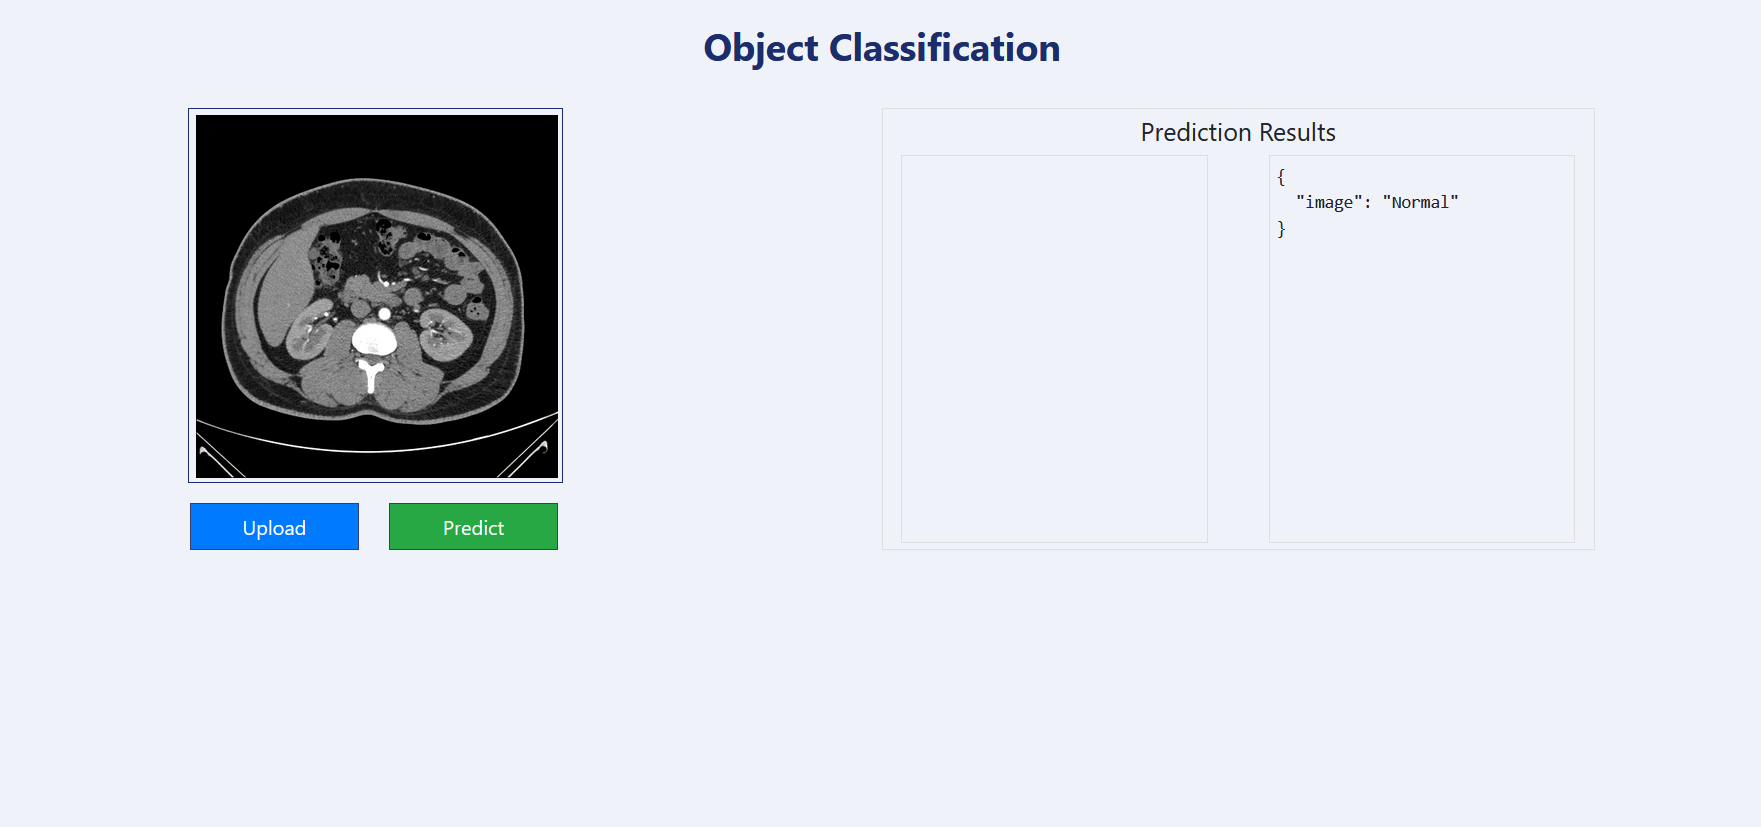
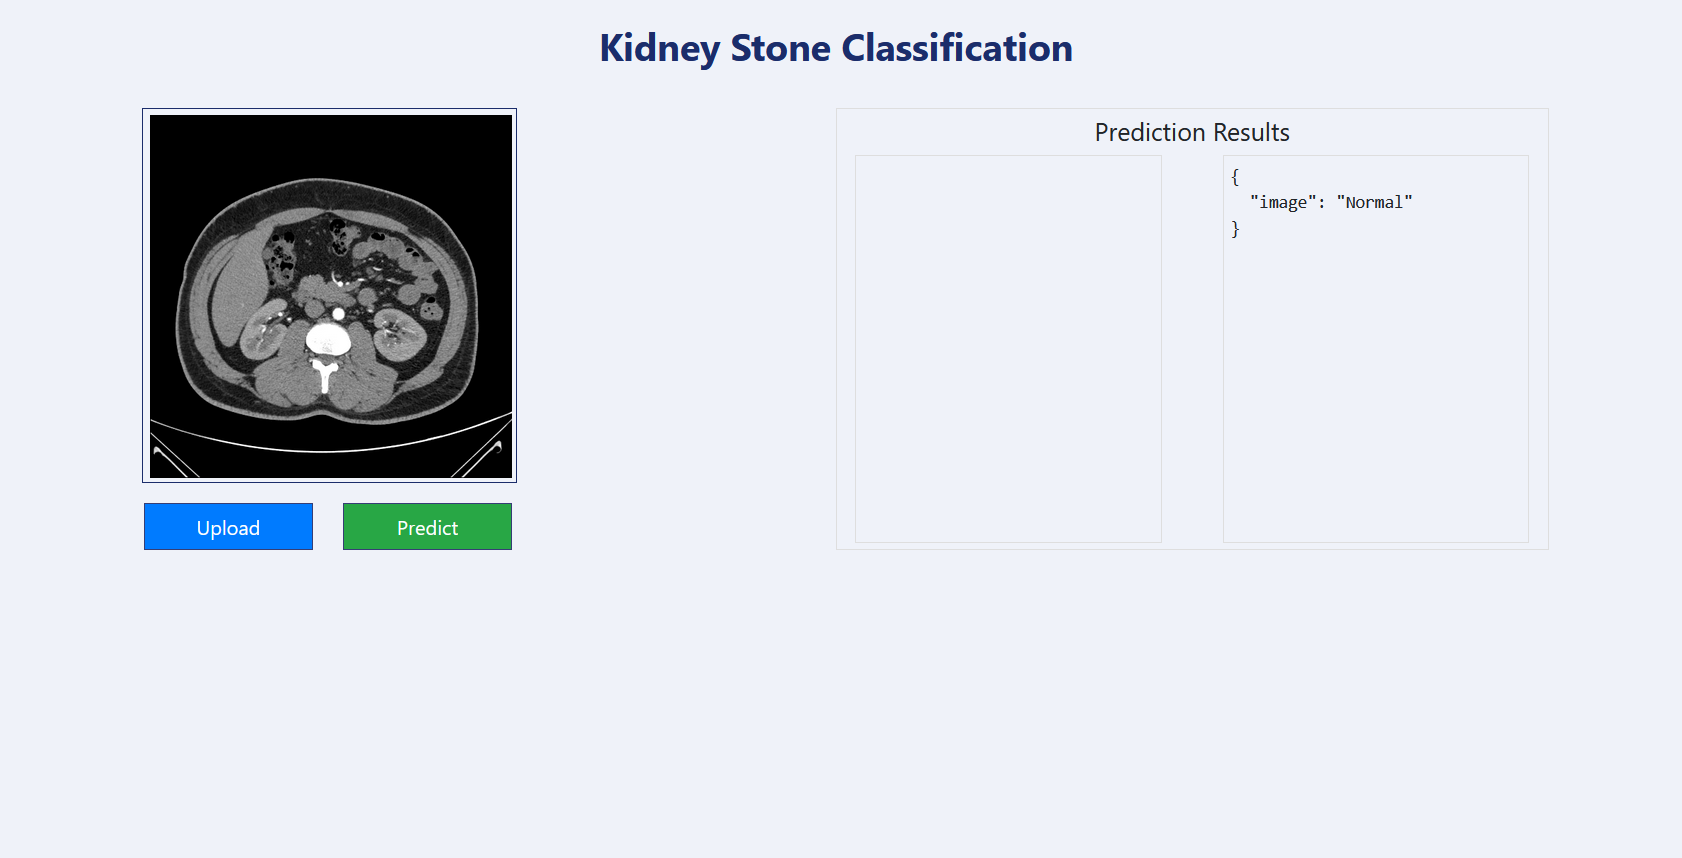
add readme

diff --git a/templates/index.html b/templates/index.html
@@ -92,7 +92,7 @@
 <body>
     <div class="main container">
 		<section class="iupload">
-			<h3 class="text-center py-4">Object Classification</h3>
+			<h3 class="text-center py-4">Kidney Stone Classification</h3>
 			<div class="row">
 				<div class="img-part col-md-6">
 					<div class="image-part">
